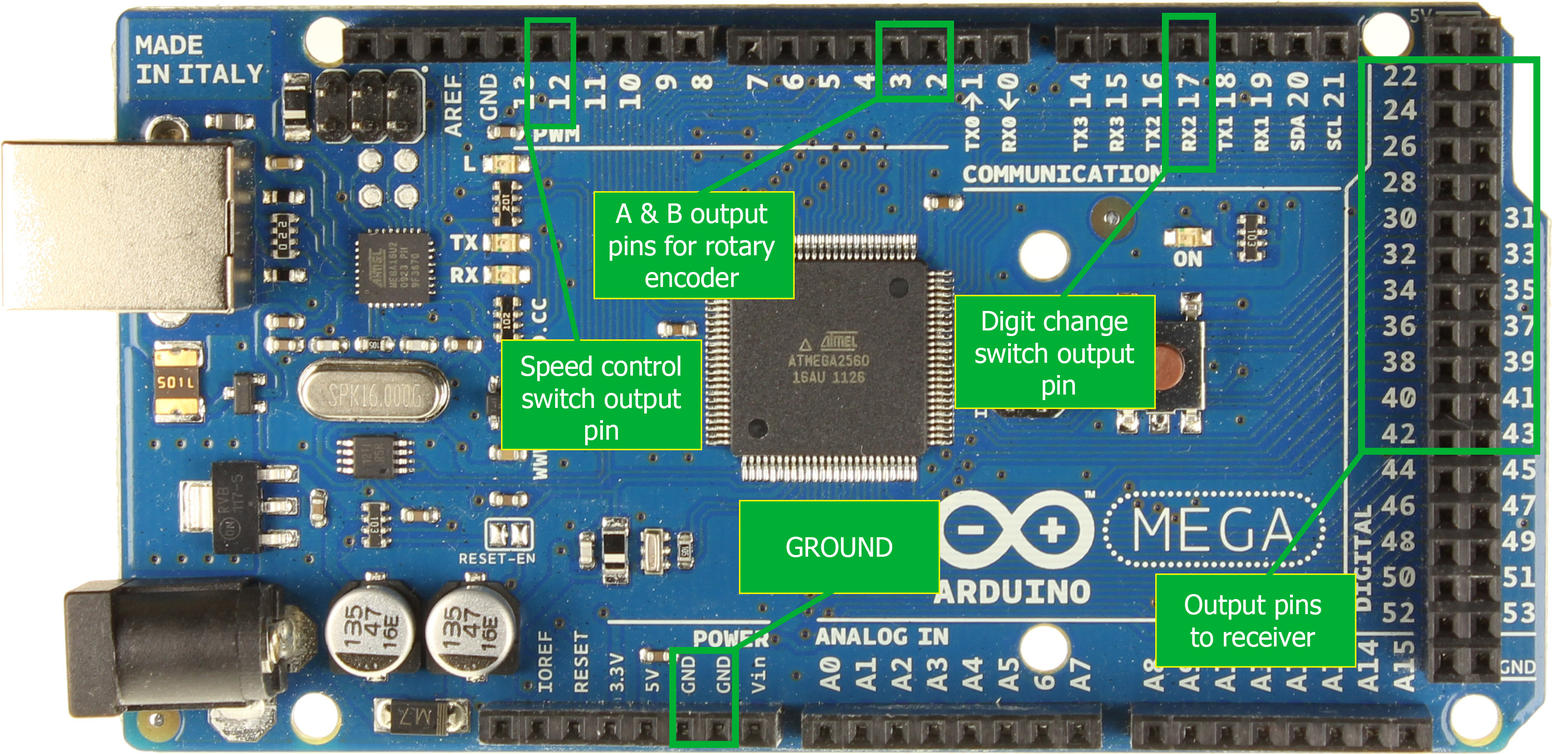
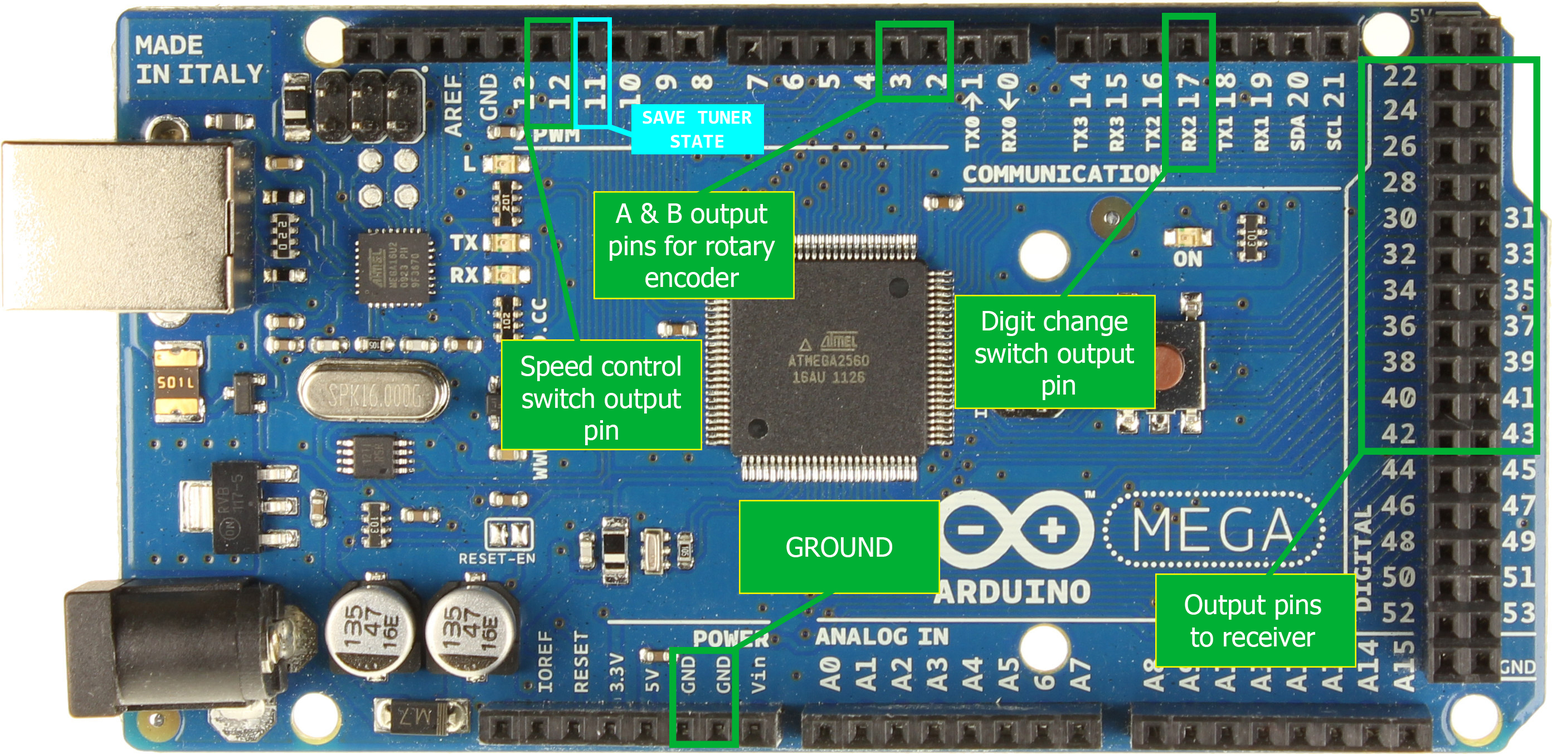
Added support for saving tuner state and other minor improvements

Changed region(s): [[0.3749, 0.1242, 0.4998, 0.2173], [0.3749, 0.0, 0.4061, 0.031]]

diff --git a/ReadMe.md b/ReadMe.md
@@ -90,7 +90,7 @@ If you are with me so far and decide to use the pin assignment I did you will wi
 | 12 | 33  | 2  |
 | 13 | 34  |  4 |
 | 14 | 35  | 8  |
-| 15 | 36  | 1 kHZ-1  |
+| 15 | 36  | 1 kHz-1  |
 | 16 | 37  | 2  |
 | 17 | 38  | 4  |
 | 18 | 39  | 8  |
@@ -101,14 +101,18 @@ If you are with me so far and decide to use the pin assignment I did you will wi
 | GND | GND  |   |
 
 **ROTARY ENCODER**
-- Connect Output **A** to **PIN 3** on Arduino
-- Connect Output **B** to **PIN 2** on Arduino
+- Connect Output **A** to  **PIN 3** on Arduino.
+- Connect Output **B** to **PIN 2** on Arduino.
+- You do not need any connection with the **Index** pin on your encoder.
 
 **DIGIT CHANGE**
-- Connect a switch to **PIN 17** on Arduino
+- Arduino **PIN 17** - should be connected to a **push-button** which changes the frequency step size when the nob on the encoder is rotated.
 
 **SPEED CONTROL**
-- Connect a switch to **PIN 12** on Arduino
+- Arduino **PIN 12** - should be connected to a **toggle button** that will enable/disable speed mode for the tuner. Essentially, with the speed mode enabled the frequency will change twice as fast when the encoder nob is rotated.
+
+**SAVE TUNER STATE**
+- Arduino **PIN 11** - should be connected to a **push-button** that saves the current tuner state to the *EEPROM*. This state will be loaded on Arduino restart.
 
 <p align="center">
     <img alt="Arduino MEGA Pinout" src="./images/Arduino-Mega-2560-Pinout.jpg" width=80% height=80%>
@@ -126,4 +130,7 @@ That is about it. Once you have the radio cabled to the Arduino you should be go
 
 You can check it performing here (YouTube):
 
-[![Youtube link](https://img.youtube.com/vi/OmHf1IeVA7g/0.jpg)](https://www.youtube.com/watch?v=OmHf1IeVA7g)
+<p align="center">
+    [![Youtube link](https://img.youtube.com/vi/OmHf1IeVA7g/0.jpg)](https://www.youtube.com/watch?v=OmHf1IeVA7g)
+</p>
+
